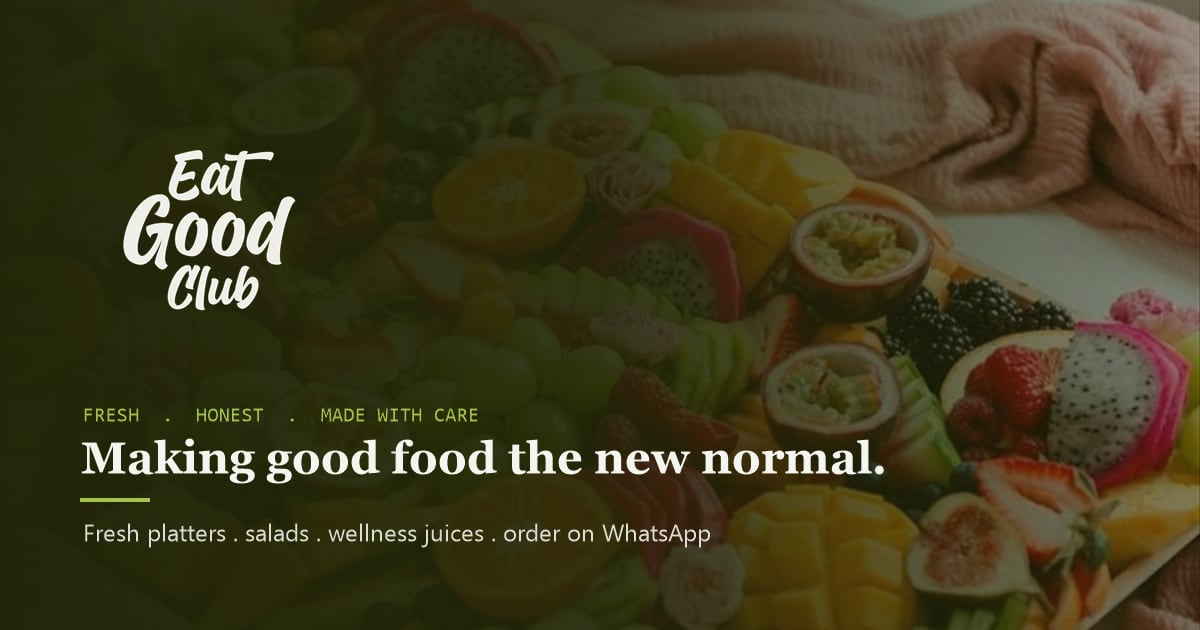
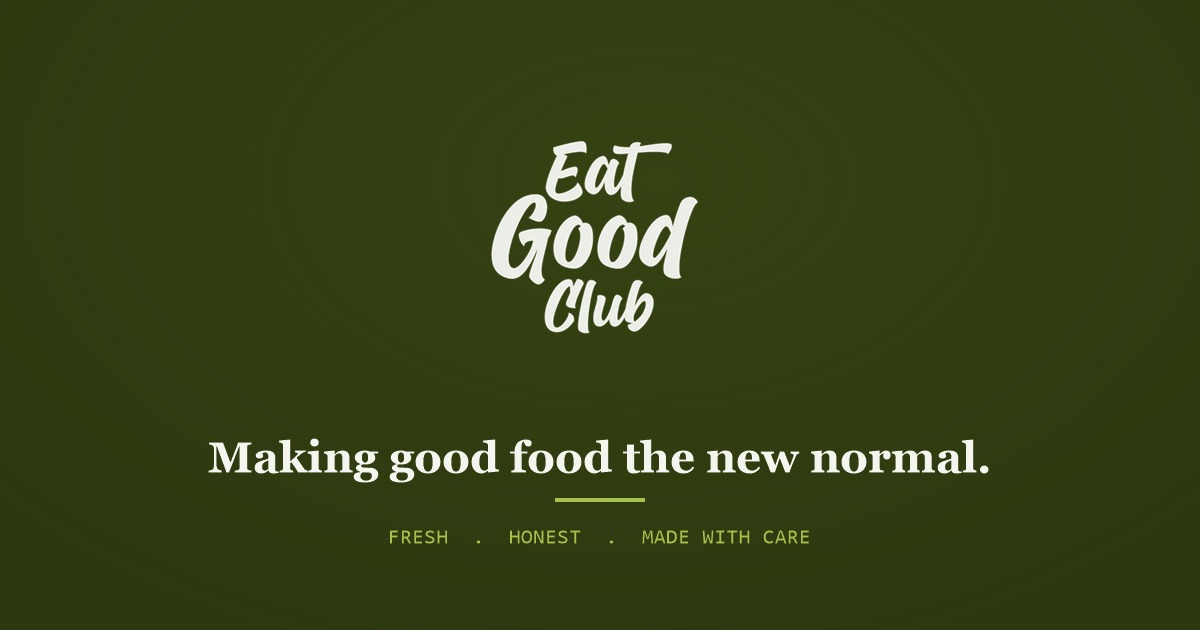
Rebrand link-preview card and stamp sitemap at build time
- Social preview is now the brush wordmark on the brand olive background,
  with the tagline and motto (52KB JPG, well within WhatsApp's limits)
- sitemap lastModified now reflects each deploy

diff --git a/src/app/sitemap.ts b/src/app/sitemap.ts
@@ -5,7 +5,7 @@ export default function sitemap(): MetadataRoute.Sitemap {
   return [
     {
       url: SITE_URL,
-      lastModified: new Date("2026-07-11"),
+      lastModified: new Date(), // stamped at build time, so it reflects each deploy
       changeFrequency: "weekly",
       priority: 1,
     },